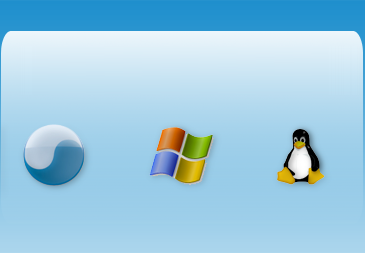
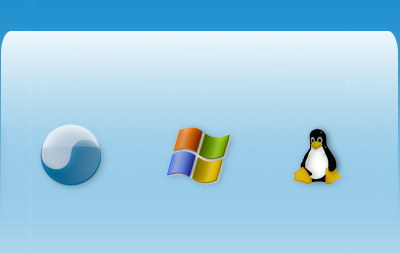
shuffle pixels
Ignore-this: ee794c30579b9a215d895cb3326fc518

darcs-hash:20100321145534-cba2c-82bf0ca311ff2d8e830ef3fea81f7a8f7f03b4f2.gz

diff --git a/download-website/new/style.css b/download-website/new/style.css
@@ -10,15 +10,15 @@ body { padding-top: 150px; font-family: sans-serif; font-size: 1em}
 
 #download_bar #logo {
   position: absolute;
-  margin-left: -402px; /* 365 `div` 2 */
+  margin-left: -417px; /* 365 `div` 2 */
   left: 50%;    top: 0;
 }
 
 #download_bar .wrap {
   position: absolute;
-  margin-left: -182px; /* 365 `div` 2 */
+  margin-left: -200px; /* 400 `div` 2 */
   left: 50%;    top: 0;
-  width:365px; height:253px;
+  width:400px; height:253px;
   background:url(download.png) no-repeat;
 }
 
@@ -27,7 +27,7 @@ body { padding-top: 150px; font-family: sans-serif; font-size: 1em}
   font-weight: normal; 
   top: 20px;
   left: 0;
-  width: 365px;
+  width: 400px;
   text-align: center;
   font-size: 2.4em;
   color: #1c3a4b;
@@ -38,7 +38,7 @@ body { padding-top: 150px; font-family: sans-serif; font-size: 1em}
   font-weight: normal; 
   top: 70px;
   left: 0;
-  width: 365px;
+  width: 400px;
   text-align: center;
   font-size: 1.15em;
   color: #1c3a4b;
@@ -61,9 +61,9 @@ a:hover { color: #2090cd; }
   vertical-align: bottom;
 }
 
-#download_bar #osx     { left: 4px; top: 120px; }
-#download_bar #windows { left: 129px; top: 120px; }
-#download_bar #linux   { left: 249px; top: 120px; }
+#download_bar #osx     { left: 20px; top: 120px; }
+#download_bar #windows { left: 145px; top: 120px; }
+#download_bar #linux   { left: 267px; top: 120px; }
 
 #contact {
   font-size: 0.9em;

diff --git a/download-website/new/index.html b/download-website/new/index.html
@@ -9,8 +9,8 @@
     <div id="download_bar">
       <a href="http://haskell.org" title="Haskell homepage"><img id="logo" src="bind.png" alt="Haskell homepage"></a>
       <div class="wrap">
-        <h1>Download Haskell</h1>
-        <h2>Pure functional programming</h2>
+        <h1>Get the Haskell Platform</h1>
+        <h2>The standard Haskell development environment</h2>
         <div class="platforms">
             <a href="mac.html"     id="osx">Mac</a>
             <a href="windows.html" id="windows">Windows</a>
